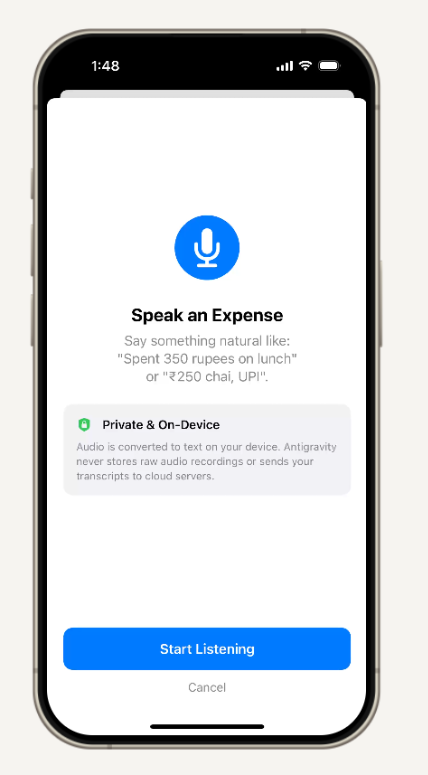
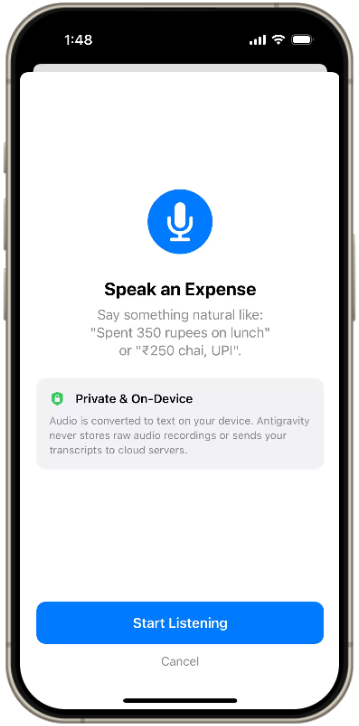
docs: update screenshots with unified transparent frames, mark project complete, and add author socials

diff --git a/README.md b/README.md
@@ -1,13 +1,15 @@
 # Expense Tracker for iOS
 
 [![iOS CI](https://github.com/satyam0singh/expense_tracker_app/actions/workflows/ios-ci.yml/badge.svg)](https://github.com/satyam0singh/expense_tracker_app/actions/workflows/ios-ci.yml)
+![Status](https://img.shields.io/badge/Project%20Status-Complete%20%26%20Production--Ready-success?logo=checkmarx)
 ![iOS](https://img.shields.io/badge/iOS-17.0%2B-blue?logo=apple)
 ![Swift](https://img.shields.io/badge/Swift-5.10-orange?logo=swift)
 ![Tests](https://img.shields.io/badge/Tests-73%20Passing-brightgreen)
 ![Privacy](https://img.shields.io/badge/Privacy-100%25%20Offline-success)
 ![License](https://img.shields.io/badge/License-MIT-lightgrey)
 
-A native, private, and local-first personal finance and expense tracker built for iOS with **SwiftUI** and **Swift 5.10**. Engineered for financial correctness, transparency, and complete on-device data sovereignty.
+> **🎉 Project Status: COMPLETE & PRODUCTION-READY**  
+> A native, private, and local-first personal finance and expense tracker built for iOS with **SwiftUI** and **Swift 5.10**. Engineered for financial correctness, transparency, and complete on-device data sovereignty. Fully validated across **14 test suites (73 automated unit & integration tests)**.
 
 ---
 
@@ -155,6 +157,20 @@ Every pull request and push to `main` triggers a complete CI validation pipeline
 - **Money Storage:** Strictly integer minor units (`Int64`). Floating-point types are forbidden in financial calculations.
 - **Network & Analytics:** Zero outbound network calls for core tracking. No telemetry, third-party trackers, or crash SDKs that log user transaction details.
 - **Auditability:** Complete specification pack, architecture decision records, and requirements traceability are maintained under [`docs/`](./docs/).
+
+---
+
+## 👨💻 Author & Connect
+
+**Satyam Singh**  
+Full-Stack & iOS Software Engineer  
+
+- 🌐 **Portfolio:** [satyamsinghdev.vercel.app](https://satyamsinghdev.vercel.app/)
+- 🐙 **GitHub:** [@satyam0singh](https://github.com/satyam0singh)
+- 💼 **LinkedIn:** [Satyam Singh](https://www.linkedin.com/in/satyam-singh-41b695294)
+- ✉ **Email:** [satyam8076singh@gmail.com](mailto:satyam8076singh@gmail.com)
+
+Open for collaborations, software engineering roles, and mobile development inquiries.
 
 ---
 
